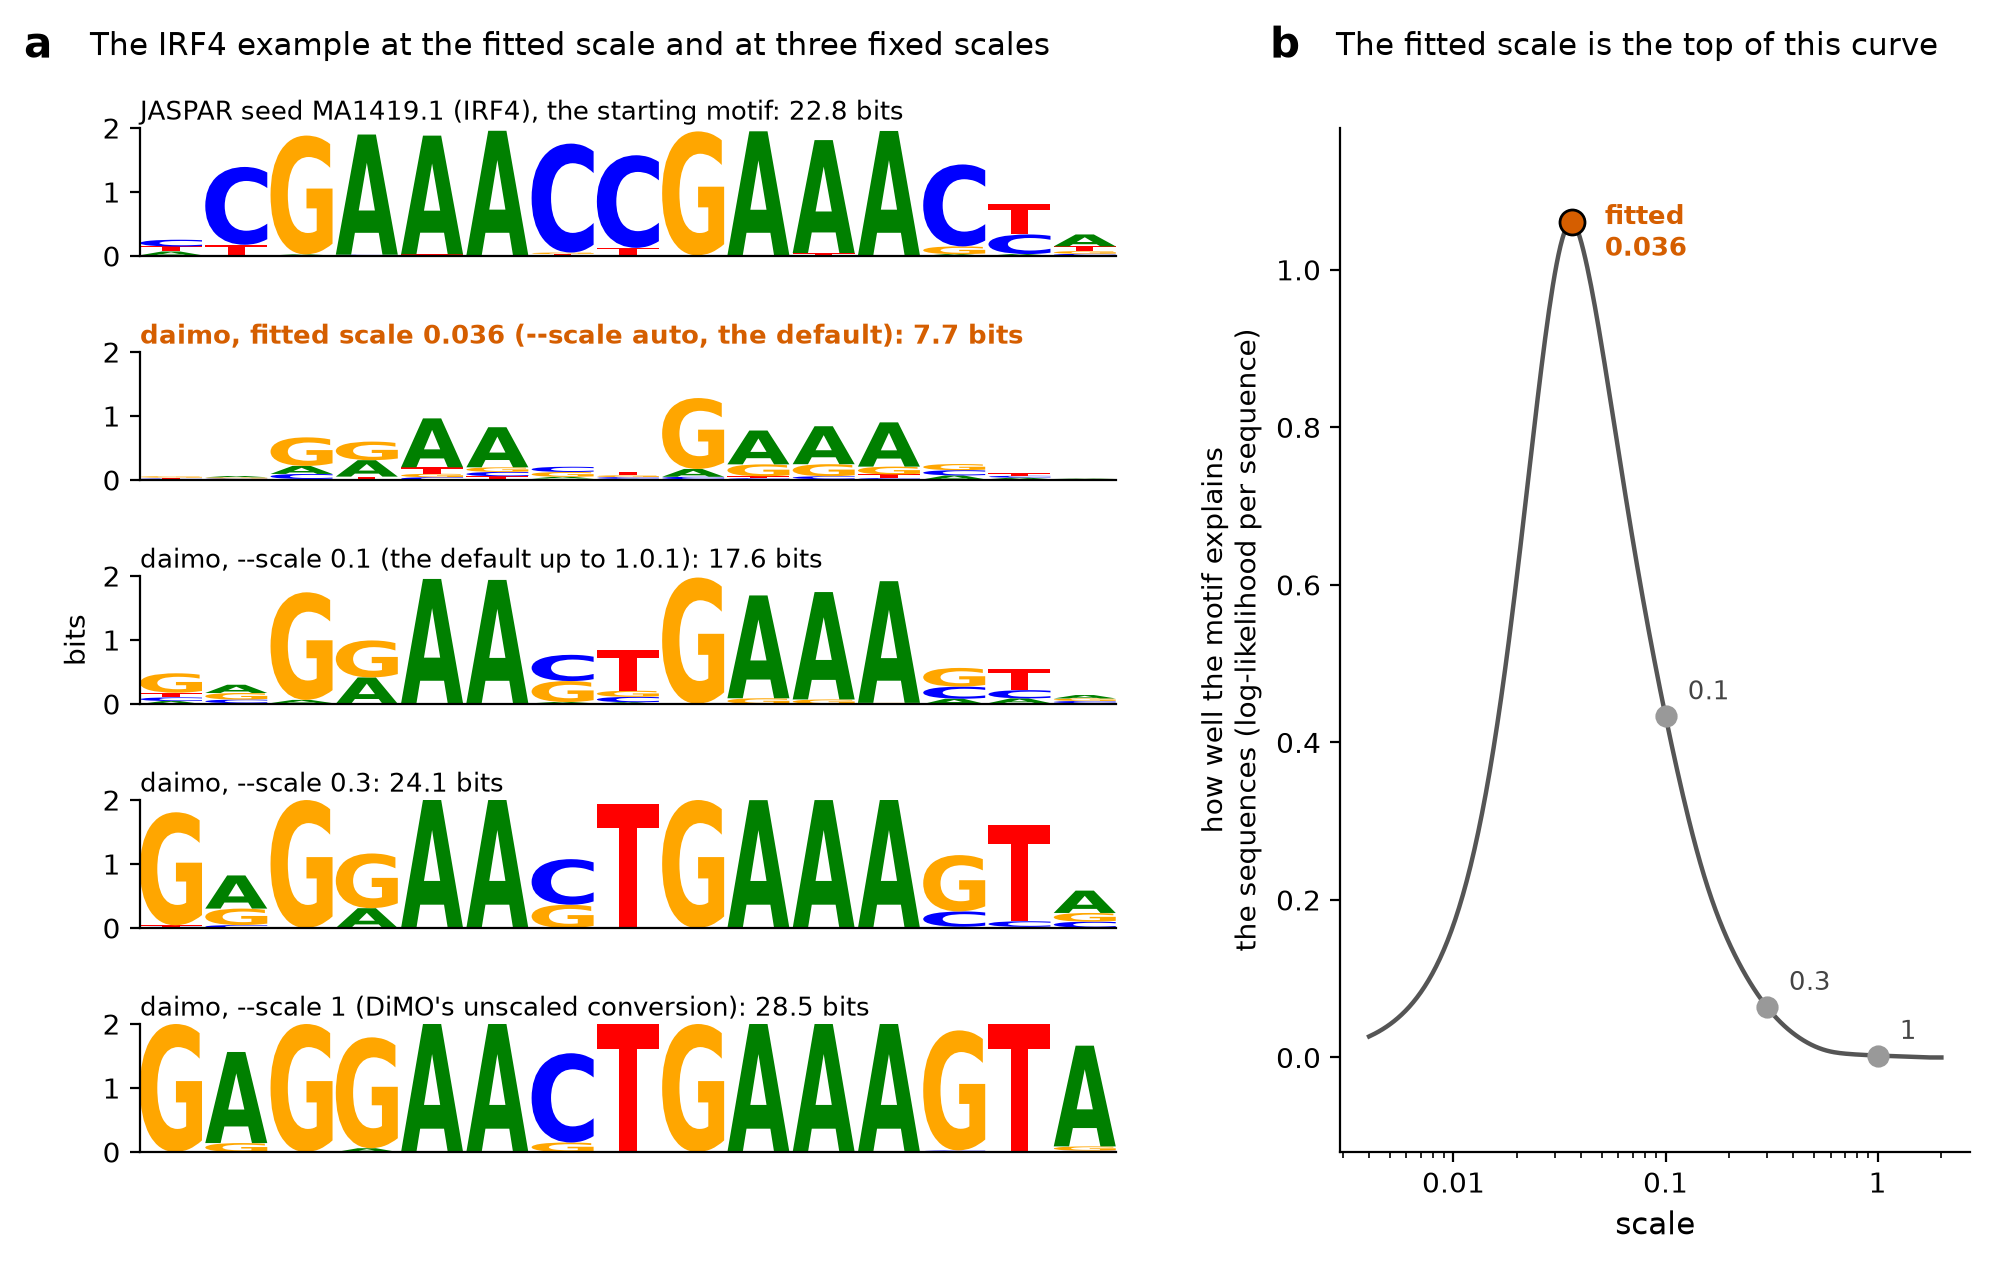
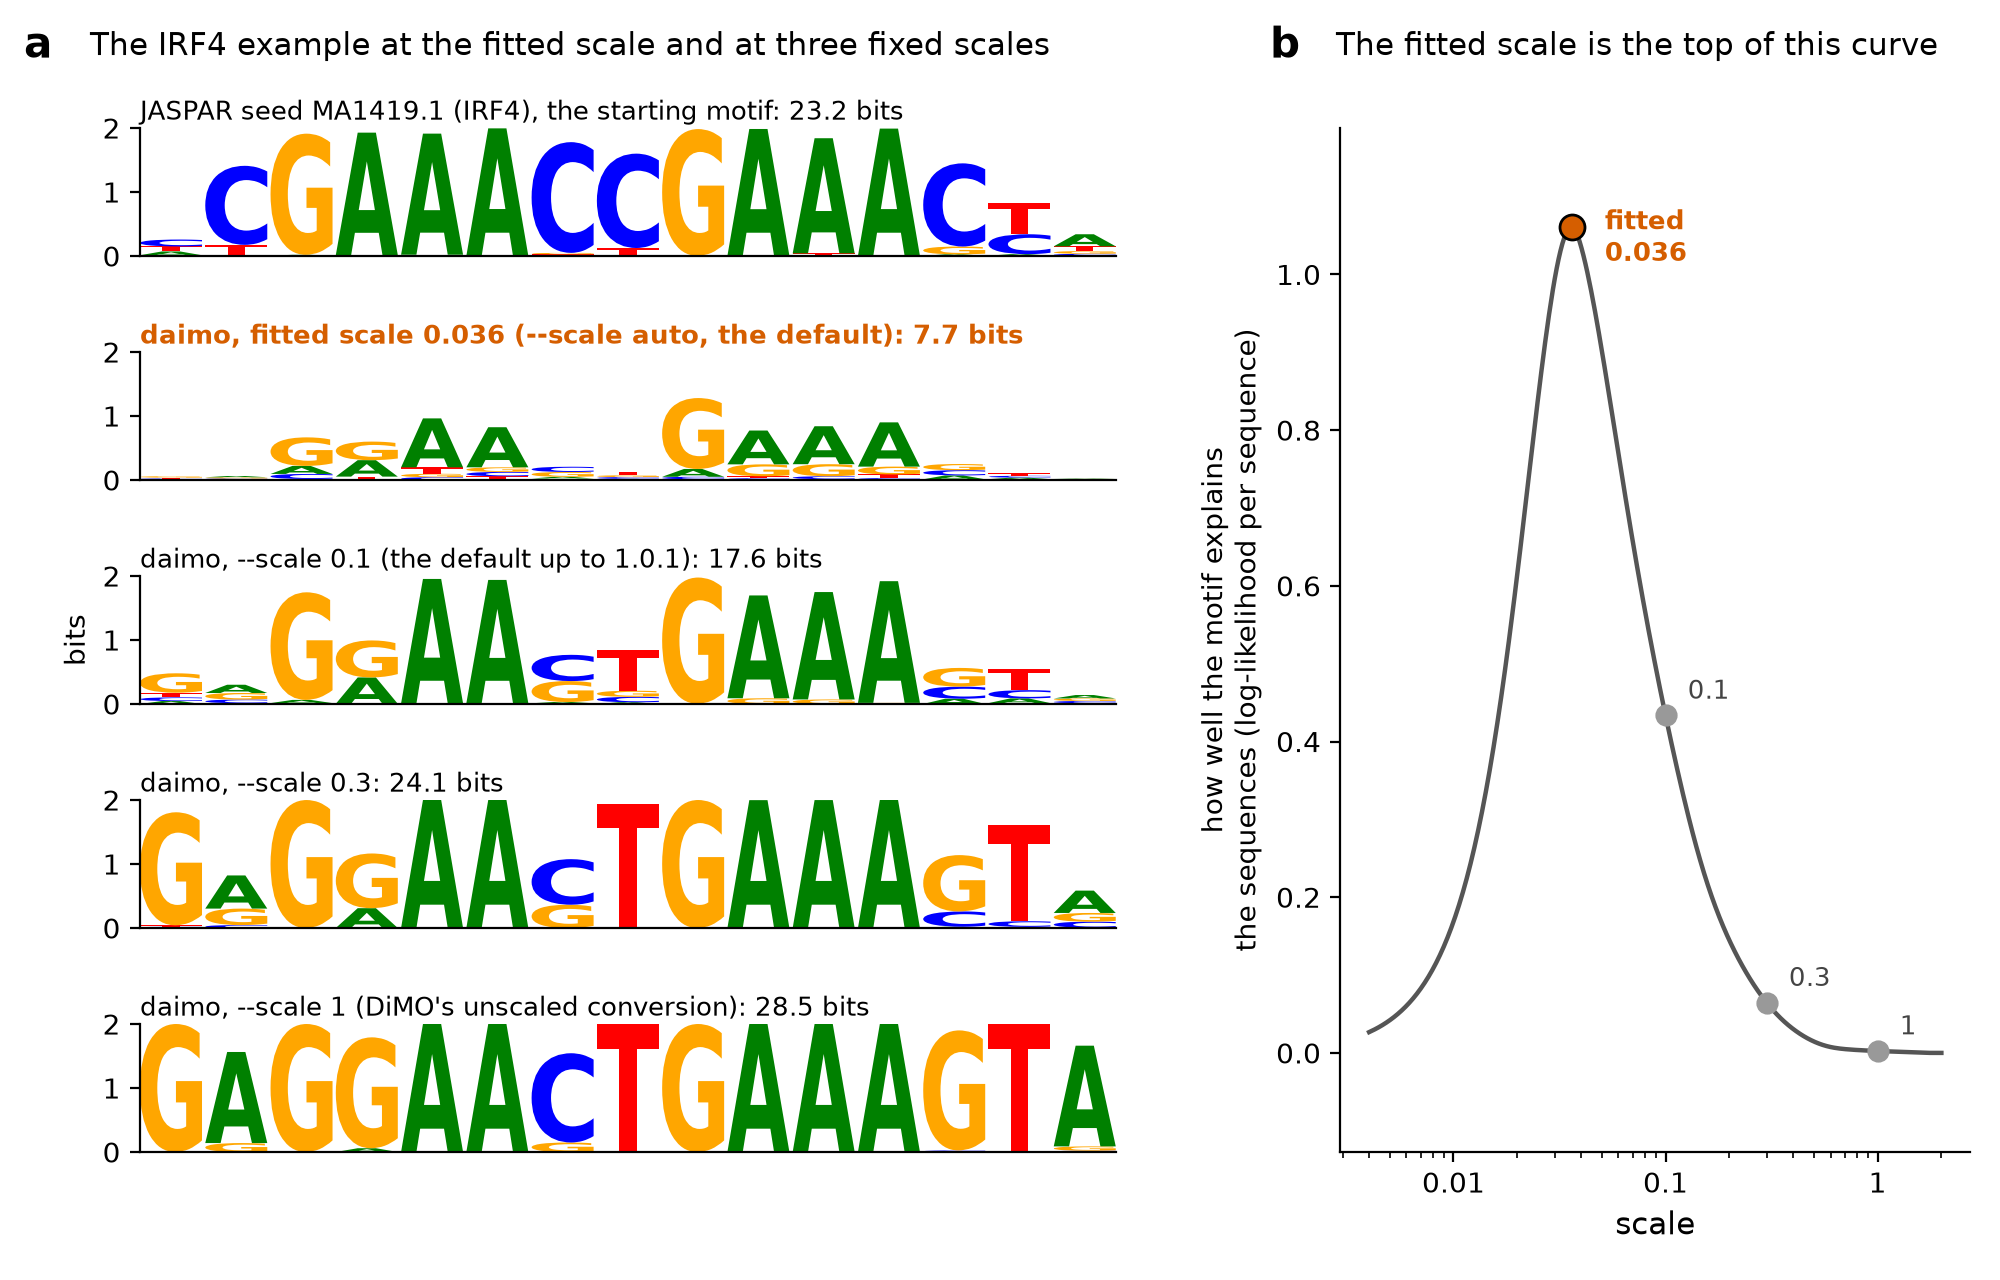
Add the script that draws the scale figure
docs/scale.py optimizes the IRF4 example (as -d, on the CPU) and draws
docs/scale.png with daimo's own fit_scale. The figure is regenerated with
it; the seed is now drawn from the raw JASPAR counts (23.2 bits).

diff --git a/docs/scale.py b/docs/scale.py
@@ -1,0 +1,164 @@
+"""Draw docs/scale.png: what the scale does to the frequency matrix.
+
+Optimizes the IRF4 example on the first 1,000 sequences of each file (as -d),
+on the CPU (a minute or two), then draws the motif at the fitted scale and at three fixed ones, and the
+likelihood that fit_scale maximizes as a function of the scale.
+
+Needs matplotlib, pandas and logomaker besides daimo. From the root of the
+repository:
+
+    python docs/scale.py
+"""
+
+import os
+import sys
+
+import logomaker
+import matplotlib
+import numpy as np
+import pandas as pd
+import torch
+from Bio import motifs
+
+matplotlib.use("Agg")
+import matplotlib.pyplot as plt  # noqa: E402
+
+ROOT = os.path.dirname(os.path.dirname(os.path.abspath(__file__)))
+sys.path.insert(0, ROOT)
+
+import daimo.damo  # noqa: E402
+from daimo.damo import (_composition, _golden_max, _one_hot, damo,  # noqa: E402
+                        fit_scale, pwm_to_pfm)
+from daimo.io import read_sequences  # noqa: E402
+
+POSITIVES = os.path.join(ROOT, "examples", "positive_seqs.fa.gz")
+NEGATIVES = os.path.join(ROOT, "examples", "negative_seqs.fa.gz")
+SEED_MOTIF = os.path.join(ROOT, "examples", "MA1419.1.jaspar")
+FIXED_SCALES = (0.1, 0.3, 1.0)
+FITTED_COLOR = "#D55E00"
+
+
+def likelihood_curve(pwm, positive_seqs, negative_seqs):
+    """
+    The log-likelihood per sequence that fit_scale maximizes.
+
+    Same model as fit_scale, for sequences without N and all of one length.
+
+    Returns:
+        Function of the scale.
+    """
+    width = pwm.shape[1]
+    weights = pwm - pwm.mean(axis=0, keepdims=True)
+    log_bg = np.log(_composition(negative_seqs))
+    kernels = torch.from_numpy(np.stack([
+        weights, weights[::-1, ::-1].copy(),
+        np.repeat(log_bg[:, None], width, 1)]).astype(np.float32))
+    out = torch.nn.functional.conv1d(_one_hot(positive_seqs), kernels)
+    out = out.double().numpy()
+    raw, bg = out[:, :2], out[:, 2]
+
+    def log_likelihood(scale):
+        log_z = np.log(np.exp(scale * weights).sum(axis=0)).sum()
+        a = (scale * raw - log_z - bg[:, None, :]).reshape(len(raw), -1)
+        top = a.max(axis=1, keepdims=True)
+        m = (top + np.log(np.exp(a - top).sum(axis=1, keepdims=True)))[:, 0] \
+            - np.log(a.shape[1])
+
+        return _golden_max(
+            lambda t: np.logaddexp(-np.logaddexp(0, t),
+                                   -np.logaddexp(0, -t) + m).sum(),
+            -12.0, 12.0)[1] / len(raw)
+
+    return log_likelihood
+
+
+def information(pfm):
+    """Height of each base in a logo: frequency times the bits of its column."""
+    return pfm * (pfm * np.log2(4 * np.clip(pfm, 1e-12, 1))).sum(axis=0)
+
+
+def main(output_file):
+    # On the CPU, so that the figure does not depend on the device: a GPU
+    # ends at slightly different weights (and at about the same fitted bits)
+    daimo.damo._get_device = lambda: "cpu"
+    pwm = damo(POSITIVES, NEGATIVES, SEED_MOTIF, debugging=True)
+    positives, negatives = (
+        [str(record.seq).upper() for record in read_sequences(file, True)]
+        for file in (POSITIVES, NEGATIVES))
+    scale = fit_scale(pwm, positives, negatives)
+    log_likelihood = likelihood_curve(pwm, positives, negatives)
+
+    with open(SEED_MOTIF) as handle:
+        counts = motifs.read(handle, "jaspar").counts
+    seed = np.array([counts[base] for base in "ACGT"], float)
+    seed /= seed.sum(axis=0)
+
+    rows = [("JASPAR seed MA1419.1 (IRF4), the starting motif", seed),
+            (f"daimo, fitted scale {scale:.3f} (--scale auto, the default)",
+             pwm_to_pfm(pwm, scale)),
+            ("daimo, --scale 0.1 (the default up to 1.0.1)",
+             pwm_to_pfm(pwm, 0.1)),
+            ("daimo, --scale 0.3", pwm_to_pfm(pwm, 0.3)),
+            ("daimo, --scale 1 (DiMO's unscaled conversion)",
+             pwm_to_pfm(pwm, 1.0))]
+
+    fig = plt.figure(figsize=(10, 6.4), dpi=200)
+    grid = fig.add_gridspec(len(rows), 2, width_ratios=[1.55, 1], hspace=0.75,
+                            wspace=0.28, left=0.07, right=0.985, top=0.9,
+                            bottom=0.1)
+
+    # a: the logos
+    for i, (title, pfm) in enumerate(rows):
+        ax = fig.add_subplot(grid[i, 0])
+        heights = information(pfm)
+        logomaker.Logo(pd.DataFrame(heights.T, columns=list("ACGT")), ax=ax,
+                       color_scheme="classic")
+        ax.set_ylim(0, 2)
+        ax.set_yticks([0, 1, 2])
+        ax.set_xticks([])
+        ax.spines[["top", "right"]].set_visible(False)
+        fitted = i == 1
+        ax.set_title(f"{title}: {heights.sum():.1f} bits", loc="left",
+                     fontsize=9.5, pad=3,
+                     color=FITTED_COLOR if fitted else "black",
+                     fontweight="bold" if fitted else "normal")
+        if i == 2:
+            ax.set_ylabel("bits")
+        print(f"{title}: {heights.sum():.1f} bits")
+
+    # b: the likelihood as a function of the scale
+    ax = fig.add_subplot(grid[:, 1])
+    scales = np.geomspace(0.004, 2, 300)
+    ax.plot(scales, [log_likelihood(s) for s in scales], color="#555555",
+            lw=1.6)
+    for s in FIXED_SCALES:
+        ax.plot(s, log_likelihood(s), "o", color="#999999", ms=7)
+        ax.annotate(f"{s:g}", (s, log_likelihood(s)), xytext=(8, 6),
+                    textcoords="offset points", color="#444444", fontsize=9.5)
+    ax.plot(scale, log_likelihood(scale), "o", color=FITTED_COLOR,
+            mec="black", ms=9, zorder=5)
+    ax.annotate(f"fitted\n{scale:.3f}", (scale, log_likelihood(scale)),
+                xytext=(12, -4), textcoords="offset points",
+                color=FITTED_COLOR, fontweight="bold", fontsize=9.5,
+                va="center")
+    ax.set_xscale("log")
+    ax.set_xticks([0.01, 0.1, 1])
+    ax.set_xticklabels(["0.01", "0.1", "1"])
+    top = log_likelihood(scale)
+    ax.set_ylim(-0.12 * top, 1.12 * top)
+    ax.set_xlabel("scale", fontsize=11)
+    ax.set_ylabel("how well the motif explains\n"
+                  "the sequences (log-likelihood per sequence)", fontsize=10)
+    ax.spines[["top", "right"]].set_visible(False)
+
+    fig.text(0.012, 0.955, "a", fontsize=15, fontweight="bold")
+    fig.text(0.045, 0.957, "The IRF4 example at the fitted scale and at three "
+             "fixed scales", fontsize=11)
+    fig.text(0.635, 0.955, "b", fontsize=15, fontweight="bold")
+    fig.text(0.668, 0.957, "The fitted scale is the top of this curve",
+             fontsize=11)
+    fig.savefig(output_file, facecolor="white")
+
+
+if __name__ == "__main__":
+    main(os.path.join(ROOT, "docs", "scale.png"))

diff --git a/README.md b/README.md
@@ -61,7 +61,7 @@ By default (`--scale auto`) the scale is therefore fitted to the sequences: daim
 
 ![The IRF4 example at the fitted scale and at three fixed scales, and the likelihood of the positive sequences as a function of the scale](docs/scale.png)
 
-The figure shows what the scale does on the IRF4 example (first 1,000 sequences of each file, `-d`). The optimized PWM is the same in the four daimo logos (**a**): only the scale changes, and the motif goes from 7.7 bits at the fitted scale (0.036) to 28.5 bits, nearly one-hot, at scale 1. The fitted scale is the one at which the motif best explains the positive sequences (**b**); the sharper motifs at 0.1, 0.3 and 1 explain them worse, because real sites do not match the consensus that closely.
+The figure shows what the scale does on the IRF4 example (first 1,000 sequences of each file, `-d`; drawn by [`docs/scale.py`](docs/scale.py)). The optimized PWM is the same in the four daimo logos (**a**): only the scale changes, and the motif goes from 7.7 bits at the fitted scale (0.036) to 28.5 bits, nearly one-hot, at scale 1. The fitted scale is the one at which the motif best explains the positive sequences (**b**); the sharper motifs at 0.1, 0.3 and 1 explain them worse, because real sites do not match the consensus that closely.
 
 `--scale` with a number uses that scale instead: above 1 sharpens the columns and below 1 flattens them. `--scale 0.1` gives the output of daimo 1.0.1, where it was the default. `--scale 1` is DiMO's unscaled conversion, which gives nearly one-hot columns because the optimized weights are large (about -290 to +32 on the IRF4 example). Information content is only comparable between motifs written with the fitted scale, or with the same number after the same number of iterations. The `pwm` format is not affected by the scale.
 
